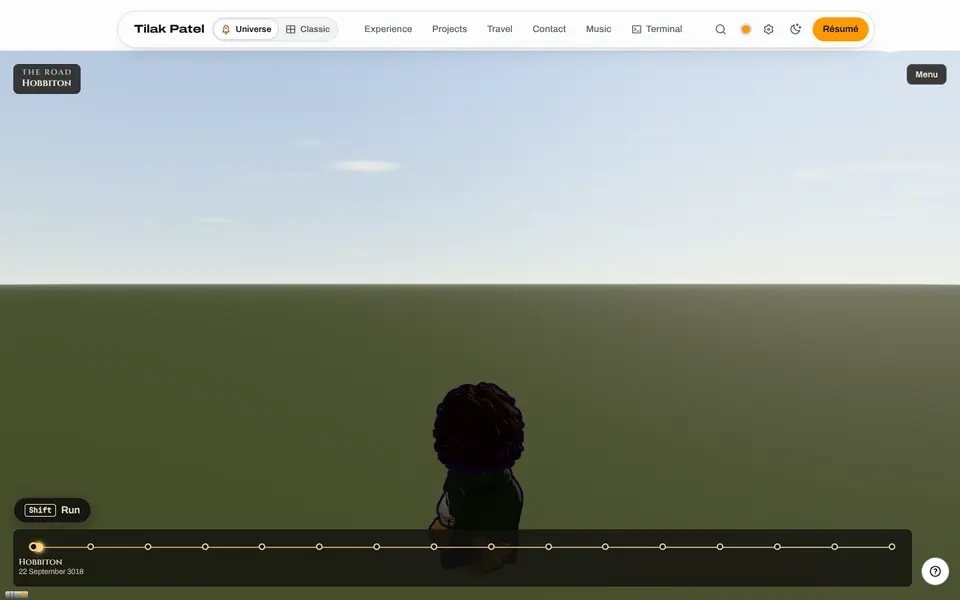
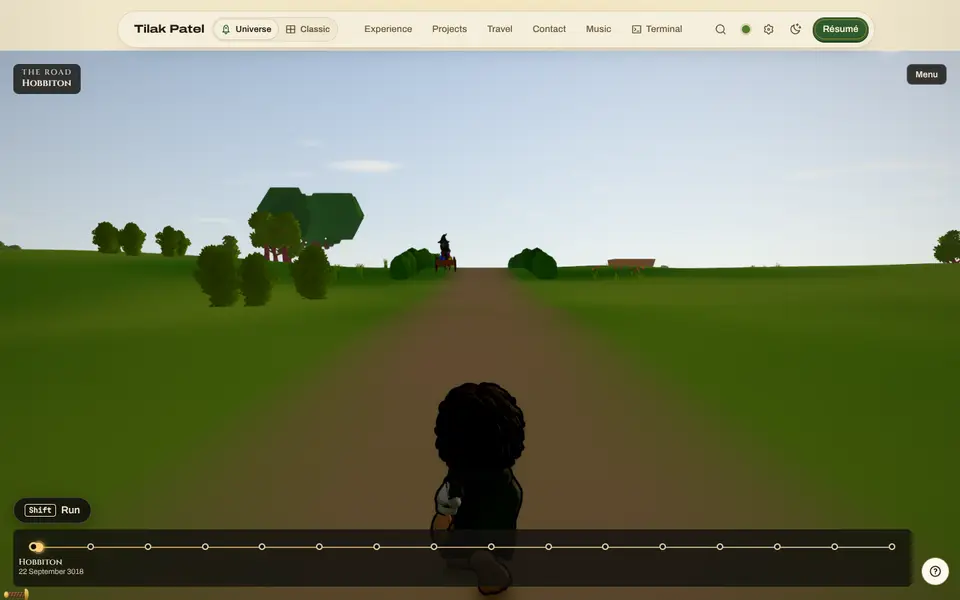
The Road: Hobbiton’s numbers, its pictures and R2’s notes
Hobbiton’s heaviest frame is the crane over the Party Field: 82 draws and
848,682 triangles on high, 44 and 263,795 on low (targets 350, 200 and
1,200,000, 400,000); 2.4 MB fetched from cold. The probe’s rows against
the warm dev server, its worst frames named (node shaders built in the
frame as a neighbour stage first draws). The beats’ pictures, each read
against its film moment, and R2’s notes for the stage lanes. The lab
scripts load the Road at low rather than wait behind the Load 3D card.

Claude-Session: https://claude.ai/code/session_01Pa7Th5Ndiq8Vz332ijCx2w

diff --git a/docs/superpowers/HANDOFF-the-road.md b/docs/superpowers/HANDOFF-the-road.md
@@ -12,7 +12,7 @@ Middle-earth as a journey: one continuous three.js ride from Bag End to the Grey
 | --- | --- | --- | --- | --- | --- | --- | --- |
 | R1 the spine | the module, the line, the clock, the director, the fellowship, daylight, the face, the rows, the cast, the measure | `…-the-road.md` | 1 to 10 | `claude/the-road-1-spine` | 2026-10-18 | #1034 | done: tasks 1 to 10; the numbers in `evidence/the-road/README.md`; next R2 (Task 11) |
 | S the sheet | the geography, the projection, the consumers, the painter, the shots | `…-middle-earth-sheet.md` (done, removed) | 1 to 6 | `claude/middle-earth-sheet` | 2026-10-18 | #1036 | done: every task, then the map made less crowded on the owner’s word (names ranked and placed, Tolkien’s forests, the hub’s foot on two lines, the frame on the whole road); main with #1023 merged in |
-| R2 the systems | the ground, the scatter, the water, the weather, the ambience, the house and the vision, Hobbiton in full | `…-the-road.md` | 11 to 17 | `claude/the-road-2-systems` | 2026-10-19 (session_01Pa7Th5Ndiq8Vz332ijCx2w) | | in progress: tasks 11 to 16 done (the ground, the scatter, the water, the weather, the ambience, the house, the vision and the chain); next Task 17 (Hobbiton in full, the stage recipe) |
+| R2 the systems | the ground, the scatter, the water, the weather, the ambience, the house and the vision, Hobbiton in full | `…-the-road.md` | 11 to 17 | `claude/the-road-2-systems` | 2026-10-19 (session_01Pa7Th5Ndiq8Vz332ijCx2w) | | done: tasks 11 to 17 (the ground, the scatter, the water, the weather, the ambience, the house, the Ring vision and the chain, Hobbiton in full); the numbers in `evidence/the-road/README.md`; next R3 (Task 18, the Shire’s edge) |
 | R3 stages 2 to 6 | the Shire’s edge, Bree, Weathertop, the Ford, Rivendell | the same | 18 to 22 | `claude/the-road-3-eriador` | | | |
 | R4 stages 7 to 10 | Caradhras and the Doors, Moria, Lothlórien, the Anduin | the same | 23 to 26 | `claude/the-road-4-mountains` | | | |
 | R5 stages 11 to 14 | the Marshes and the Gate, Ithilien and the Vale, Cirith Ungol, Gorgoroth and the Mountain | the same | 27 to 30 | `claude/the-road-5-mordor` | | | |
@@ -40,6 +40,16 @@ A session takes the next lane whose state allows it, runs until its budget, merg
 - No MiniMap and no Bubble yet: the first draws nothing until Task 20, the second has no line to say until a beat plays one.
 - On a phone the ribbon’s sixteen 44 px dots overlap (R7).
 - The container’s SwiftShader draws the Road at about one frame a second (and `/earth` at 1.6): judge frame time on the owner’s machines, draws and triangles here.
+
+## R2’s notes for the next lanes
+
+- **The recipe** is Hobbiton’s: `stages/<id>/beats.js` (data, with `entered`/`left` re-exported), `lore.js`, `props.js`, `index.js`’s `build(ctx)` (`ctx = { road, heightAt, rt, weather, tier }`; `update(local, dt, { since, speed })`, each beat’s scene a function of `since[id]`, so walking back puts it back). Register the stage in `stages/registry.js` (its beats and lore: the ledger and the lore sweep read them) and its scene’s import in `scenes.js`’s `SCENES`. `stages/index.js` takes its `ground` (rivers as `points`, `depth`, `width`, `bank`).
+- **Beats**: the clock stops on every written beat’s mark for its `hold`; Next under reduced motion steps beat to beat. A beat’s `params.above: true` puts its camera’s heights over the land. A `crane` takes `params.top` and `params.lookAt`. `fx: [{ kind: 'black' | 'vision', at, seconds }]` (`beats.js`’s `fxAt`). `clip` plays once as the beat is reached; `lines` are `voicelines.js` ids, said and told as `'line'` events (the Bubble is the face’s to draw).
+- **Water**: `water.js`’s `createWater({ along: { line, width, level } | area, kind: 'river' | 'still' | 'lava', sky, ground })`; rivers in a stage’s ground get theirs from `lands.js` (`riverLevel`, and `land.wet` keeps the scatter out). `uRise` is the Ford’s.
+- **Weather**: `weather.kind(name, { count, box, follow, scale })` → `{ at, rate, stop }`; a kind is one draw. Under the chain its quads write the scene pass’s normal and throw away clear texels (`weather.js`), or AO leaves squares behind them.
+- **The vision**: `road.uVision` is on every lit material (swept once a second) and in the grade; `vision.js` is the state.
+- **The worst frames** are node shaders built in the frame (the evidence README); compiling each stage off the frame as lands.js finishes it is the mend (R7, or the next lane that feels it).
+- `lab/road/common.mjs` sets `tp-worlds` to load, as the probe does: at `low` the site otherwise holds the Road behind its Load 3D card and the lab scripts time out.
 
 ## Checks
 

diff --git a/docs/superpowers/evidence/the-road/README.md b/docs/superpowers/evidence/the-road/README.md
@@ -55,3 +55,46 @@ The frame rate is the software rasteriser’s, not the Road’s: in the same con
 ### The Death Star’s letterbox, lifted into the kit
 
 The bars drawn by the old `.ds-letterbox` rules and by the kit’s `Letterbox` with the Death Star’s skin (`--hud-bar: 11%`, `--hud-bar-in: 0.5s`), in a 960 × 600 frame once their animation has run: 0 bytes differ, 22 % of the frame black (two bars of 11 %). The page’s first screen in the container (its graphics-chip gate) before and after: 0 bytes differ.
+
+## R2, the systems and Hobbiton (2026-10-19)
+
+The ground, the scatter, the water, the weather, the ambience, the house with the Ring vision and the post chain, and Hobbiton built in full (the stage recipe). Measured in the container on `nodes-webgl`; **the WebGPU rows are the owner’s machines’ and are left empty**.
+
+### Hobbiton (`node lab/road/measure.mjs hobbiton`, and each beat held)
+
+| where | quality | draws | triangles | assets MB | UI share |
+| --- | --- | --- | --- | --- | --- |
+| the first beat (Bag End’s door, 6 s in) | high | 49 | 339,778 | 2.4 | 13.9 % |
+| the first beat | low | 35 | 139,769 | 4.7 | 13.9 % |
+| the Party Field, the crane up (the heaviest frame) | high | 82 | 848,682 | | |
+| the Party Field, the crane up | low | 44 | 263,795 | | |
+| the dragon over the field | high | 80 | 821,187 | | |
+| the dragon over the field | low | 42 | 237,589 | | |
+
+- Against the design’s targets (350 and 200 draws, 1,200,000 and 400,000 triangles): the heaviest frame is 82 draws and 848,682 triangles on `high`, 44 and 263,795 on `low`. The chain adds about twenty draws on `high` (AO, bloom, the grade, SMAA: 51 against 30 before it at the same spot).
+- Assets from cold: 2.4 MB at `high` (the Hill’s door, the farm horse, the nature kit, Frodo and Gandalf, Bilbo and the dancers once near); the 4.7 MB at `low` counted the cast that walked in during the slower first frames. Under the boot slice’s 8 MB either way.
+- The Road’s own sheets (rain, snow, ash, embers, motes, spray, smoke, fire) are 1.5 to 14 kB each; the eight sounds are made on the context, nothing fetched.
+
+### The probe (`BASE=http://localhost:5173 node scripts/perf-probe.mjs road`)
+
+Moria’s first metre, as R1’s rows; run against the warm dev server (the probe’s own fresh Vite counts its dependency pre-bundling in the ready time: 55 s that way, cold).
+
+| route | machine | drawn on | quality | ready s | fps | p50 ms | worst 1 % ms | main ms | GPU ms | draws | programs | late pipelines |
+| --- | --- | --- | --- | --- | --- | --- | --- | --- | --- | --- | --- | --- |
+| road | container | nodes-webgl | high | 36.6 | 4.8 | 4.9 | 9,520.6 | 3.5 | - | 37 | 27 | 7 |
+| road | container | nodes-webgl | low | 13.5 | 4.6 | 4.4 | 10,550.1 | 3.2 | - | 37 | 27 | 7 |
+| road | owner’s laptop | webgpu | high | | | | | | | | | |
+| road | owner’s desktop | webgpu | high | | | | | | | | | |
+
+- The median main thread is a few milliseconds; the worst frames (5 to 11 s here) are node shaders built inside the frame as a stage’s materials first draw (`getProgramParameter`, and three’s builder under `Promise.resolve`): the neighbour stage’s scatter pools, the water and the sprites. On SwiftShader that is seconds; on a graphics chip tens of milliseconds a material. Open for R7: compile each built stage off the frame (`rt.gfx.compile` on its group once lands.js finishes it) before it is drawn.
+- `/middle-earth/road?at=moria` comes up (the world on) in 4.6 s from a warm page in the container.
+
+### The pictures
+
+`shots/hobbiton-desktop.webp` and `-phone.webp` (`node lab/road/shots.mjs hobbiton`: 20 m in, the cart coming down the lane), and the beats, each looked at against its film moment:
+
+- `hobbiton-door-desktop.webp`: the first beat’s wide on the Hill, six round doors in its turf, Bag End’s the Sketchfab door, chimneys on the crown; Frodo on the lane. The Shire’s morning.
+- `hobbiton-cart-desktop.webp`: the side shot as Gandalf’s cart passes, the bay horse at a slow walk, the fireworks in the bed, Frodo turning to it. “A wizard is never late.”
+- `hobbiton-party-desktop.webp` and `hobbiton-party-phone.webp`: the crane up over the Party Field at dusk: the tree, its lanterns, the long tables, eight dancers round them. The party.
+- `hobbiton-dragon-desktop.webp`: the dragon, a fiery streak over the field from the tree, under the first stars.
+- `hobbiton-vision-desktop.webp`: `window.__ROAD__.vision(1)` on the lane: the world drained to a cold grey-blue, its edges smeared, the sky washed out; the beat takes it for 0.4 s as Bilbo goes.
